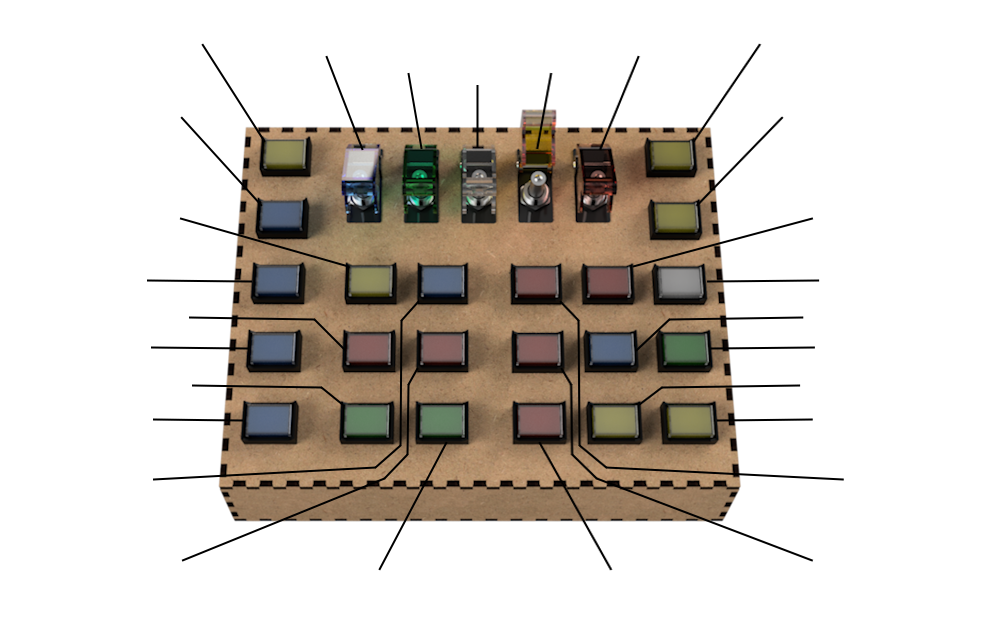
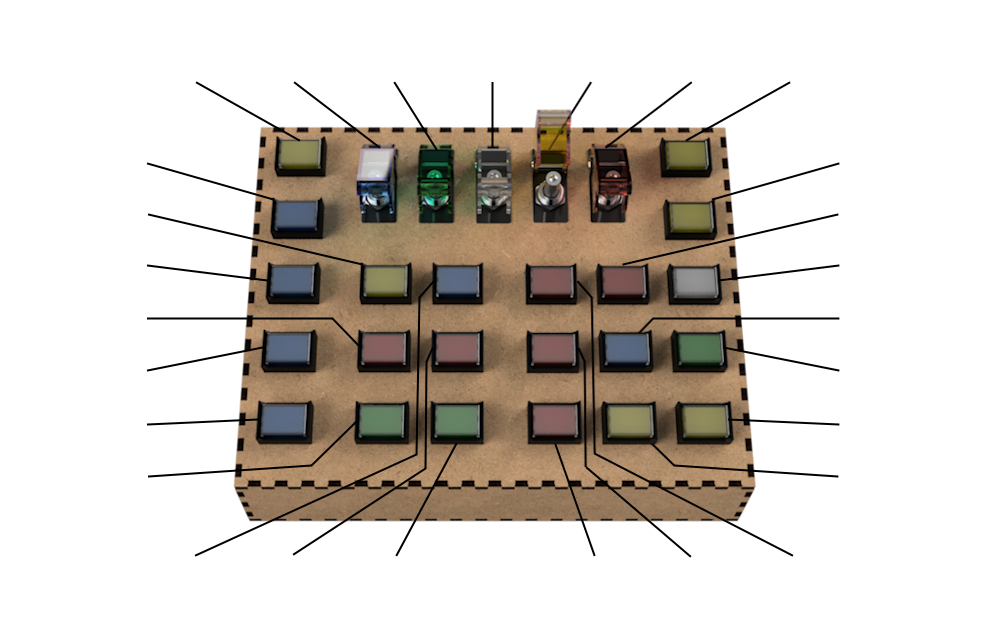
Finished seting up table, starting working on dropdowns

diff --git a/src/components/Home.vue b/src/components/Home.vue
@@ -3,127 +3,132 @@
     <img src="/images/topRender.png">
   </div>
   <div class="inputTable">
+    <!--Y1 LB LG LW LY LR Y4
+        B1                Y5
+        B2  Y2 B5   R3 R6 W1
+        B3  R1 R2   R4 B6 G3
+        B4  G1 G2   R5 Y3 Y6-->
     <table>
       <tr>
-        <td></td>
-        <td></td>
-        <td></td>
-        <td></td>
-        <td></td>
-        <td></td>
-        <td></td>
-        <td></td>
-        <td></td>
+        <td> </td>
+        <td>Y1</td>
+        <td>LB</td>
+        <td>LG</td>
+        <td>LW</td>
+        <td>LY</td>
+        <td>LR</td>
+        <td>Y4</td>
+        <td> </td>
       </tr>
       <tr>
-        <td></td>
-        <td></td>
-        <td></td>
-        <td></td>
-        <td></td>
-        <td></td>
-        <td></td>
-        <td></td>
-        <td></td>
+        <td> </td>
+        <td> </td>
+        <td> </td>
+        <td> </td>
+        <td> </td>
+        <td> </td>
+        <td> </td>
+        <td> </td>
+        <td> </td>
       </tr>
       <tr>
-        <td></td>
-        <td></td>
-        <td></td>
-        <td></td>
-        <td></td>
-        <td></td>
-        <td></td>
-        <td></td>
-        <td></td>
+        <td>B1</td>
+        <td> </td>
+        <td> </td>
+        <td> </td>
+        <td> </td>
+        <td> </td>
+        <td> </td>
+        <td> </td>
+        <td>Y5</td>
       </tr>
       <tr>
-        <td></td>
-        <td></td>
-        <td></td>
-        <td></td>
-        <td></td>
-        <td></td>
-        <td></td>
-        <td></td>
-        <td></td>
+        <td>Y2</td>
+        <td> </td>
+        <td> </td>
+        <td> </td>
+        <td> </td>
+        <td> </td>
+        <td> </td>
+        <td> </td>
+        <td>R6</td>
       </tr>
       <tr>
-        <td></td>
-        <td></td>
-        <td></td>
-        <td></td>
-        <td></td>
-        <td></td>
-        <td></td>
-        <td></td>
-        <td></td>
+        <td>B2</td>
+        <td> </td>
+        <td> </td>
+        <td> </td>
+        <td> </td>
+        <td> </td>
+        <td> </td>
+        <td> </td>
+        <td>W1</td>
       </tr>
       <tr>
-        <td></td>
-        <td></td>
-        <td></td>
-        <td></td>
-        <td></td>
-        <td></td>
-        <td></td>
-        <td></td>
-        <td></td>
+        <td>R1</td>
+        <td> </td>
+        <td> </td>
+        <td> </td>
+        <td> </td>
+        <td> </td>
+        <td> </td>
+        <td> </td>
+        <td>B6</td>
       </tr>
       <tr>
-        <td></td>
-        <td></td>
-        <td></td>
-        <td></td>
-        <td></td>
-        <td></td>
-        <td></td>
-        <td></td>
-        <td></td>
+        <td>B3</td>
+        <td> </td>
+        <td> </td>
+        <td> </td>
+        <td> </td>
+        <td> </td>
+        <td> </td>
+        <td> </td>
+        <td>G3</td>
       </tr>
       <tr>
-        <td></td>
-        <td></td>
-        <td></td>
-        <td></td>
-        <td></td>
-        <td></td>
-        <td></td>
-        <td></td>
-        <td></td>
+        <td>B4</td>
+        <td> </td>
+        <td> </td>
+        <td> </td>
+        <td> </td>
+        <td> </td>
+        <td> </td>
+        <td> </td>
+        <td>Y6</td>
       </tr>
       <tr>
-        <td></td>
-        <td></td>
-        <td></td>
-        <td></td>
-        <td></td>
-        <td></td>
-        <td></td>
-        <td></td>
-        <td></td>
+        <td>G1</td>
+        <td> </td>
+        <td> </td>
+        <td> </td>
+        <td> </td>
+        <td> </td>
+        <td> </td>
+        <td> </td>
+        <td>Y3</td>
       </tr>
       <tr>
-        <td></td>
-        <td></td>
-        <td></td>
-        <td></td>
-        <td></td>
-        <td></td>
-        <td></td>
-        <td></td>
-        <td></td>
+        <td> </td>
+        <td> </td>
+        <td> </td>
+        <td> </td>
+        <td> </td>
+        <td> </td>
+        <td> </td>
+        <td> </td>
+        <td> </td>
       </tr>
       <tr>
-        <td></td>
-        <td></td>
-        <td></td>
-        <td></td>
-        <td></td>
-        <td></td>
-        <td></td>
-        <td></td>
-        <td></td>
+        <td> </td>
+        <td>B5</td>
+        <td>R2</td>
+        <td>G2</td>
+        <td> </td>
+        <td>R5</td>
+        <td>R4</td>
+        <td>R3</td>
+        <td> </td>
       </tr>
     </table>
   </div>
@@ -146,6 +151,7 @@ body {
   align-content: center;
   justify-content: center;
   align-items: center;
+  z-index:-10;
 }
 
 .inputTable {
@@ -157,7 +163,6 @@ body {
   position: fixed;
   left:0;
   top:0;
-  z-index:-1;
   width: 100%;
   height: 100%;
   margin: auto;
@@ -171,8 +176,10 @@ table {
 }
 
 td, th {
-  border: 1px solid #dddddd;
-  text-align: left;
+  /*border: solid 1px black;*/
+  text-align: center;
   padding: 8px;
+  width: 10%;
+  height: 8%;
 }
 </style>

diff --git a/src/main.js b/src/main.js
@@ -19,7 +19,7 @@ const createWindow = () => {
   });
 
   // Create a SerialPort instance and configure it according to your ESP32 setup
-  const port = new SerialPort({ path: 'COM4', baudRate: 9600 })
+  const port = new SerialPort({ path: 'COM4', baudRate: 115200 })
   let serialInput = "";
   let input = "";
 
@@ -27,17 +27,10 @@ const createWindow = () => {
   port.on('data', (data) => {
     // Handle received data
     const receivedData = data.toString();
-    if (receivedData != "$") {
-      serialInput = serialInput + receivedData;
-    } else {
-      console.log('Received data:', serialInput);
-      input = serialInput;
-      serialInput = "";
-    }
-    if (input == "a") {
+    console.log(receivedData);
+    /*if (receivedData == "a") {
       robot.keyTap('a');
-      input = "";
-    }
+    }*/
   });
 
   // and load the index.html of the app.

diff --git a/src/components/KeySelect.vue b/src/components/KeySelect.vue
@@ -1,0 +1,44 @@
+<template>
+  <div class="dropdown" id="langList">
+    <a id="auto">
+      Auto
+    </a>
+    <a id="en">
+      English
+    </a>
+    <a id="fr">
+      Français
+    </a>
+  </div>
+  <button class="btn" id="langBtn">
+    <span id="langDpdn">Dropdown</span>
+    <i class="bx bx-chevron-up" id="langArrow"></i>
+  </button>
+</template>
+
+<script>
+
+</script>
+
+<style scoped>
+.dropdown:hover .dropdown-content {
+  display: block;
+}
+.dropdown:hover .dropbtn {
+  background-color: #111;
+}
+.btn {
+  background-color: #f4b126;
+  display: flex;
+  align-items: center;
+  justify-content: flex-start;
+  column-gap: var(--gap);
+  padding: 0.6rem;
+  cursor: pointer;
+  border-radius: var(--radius);
+  border: none;
+  box-shadow: var(--shadow);
+  position: fixed;
+  width: 100px;
+}
+</style>

diff --git a/src/renderer.js b/src/renderer.js
@@ -3,6 +3,7 @@ import { createRouter, createWebHistory } from 'vue-router'
 
 import App from '/src/App.vue';
 import Home from '/src/components/Home.vue';
+import KeySelect from '/src/components/KeySelect.vue';
 
 const routes = [
   { path: '/', component: Home },
@@ -15,5 +16,7 @@ const router = createRouter({
 
 const app = createApp(App)
 app.use(router) // Use the router in the app
+
+app.component('key-select', KeySelect)
 
 app.mount('#app')
